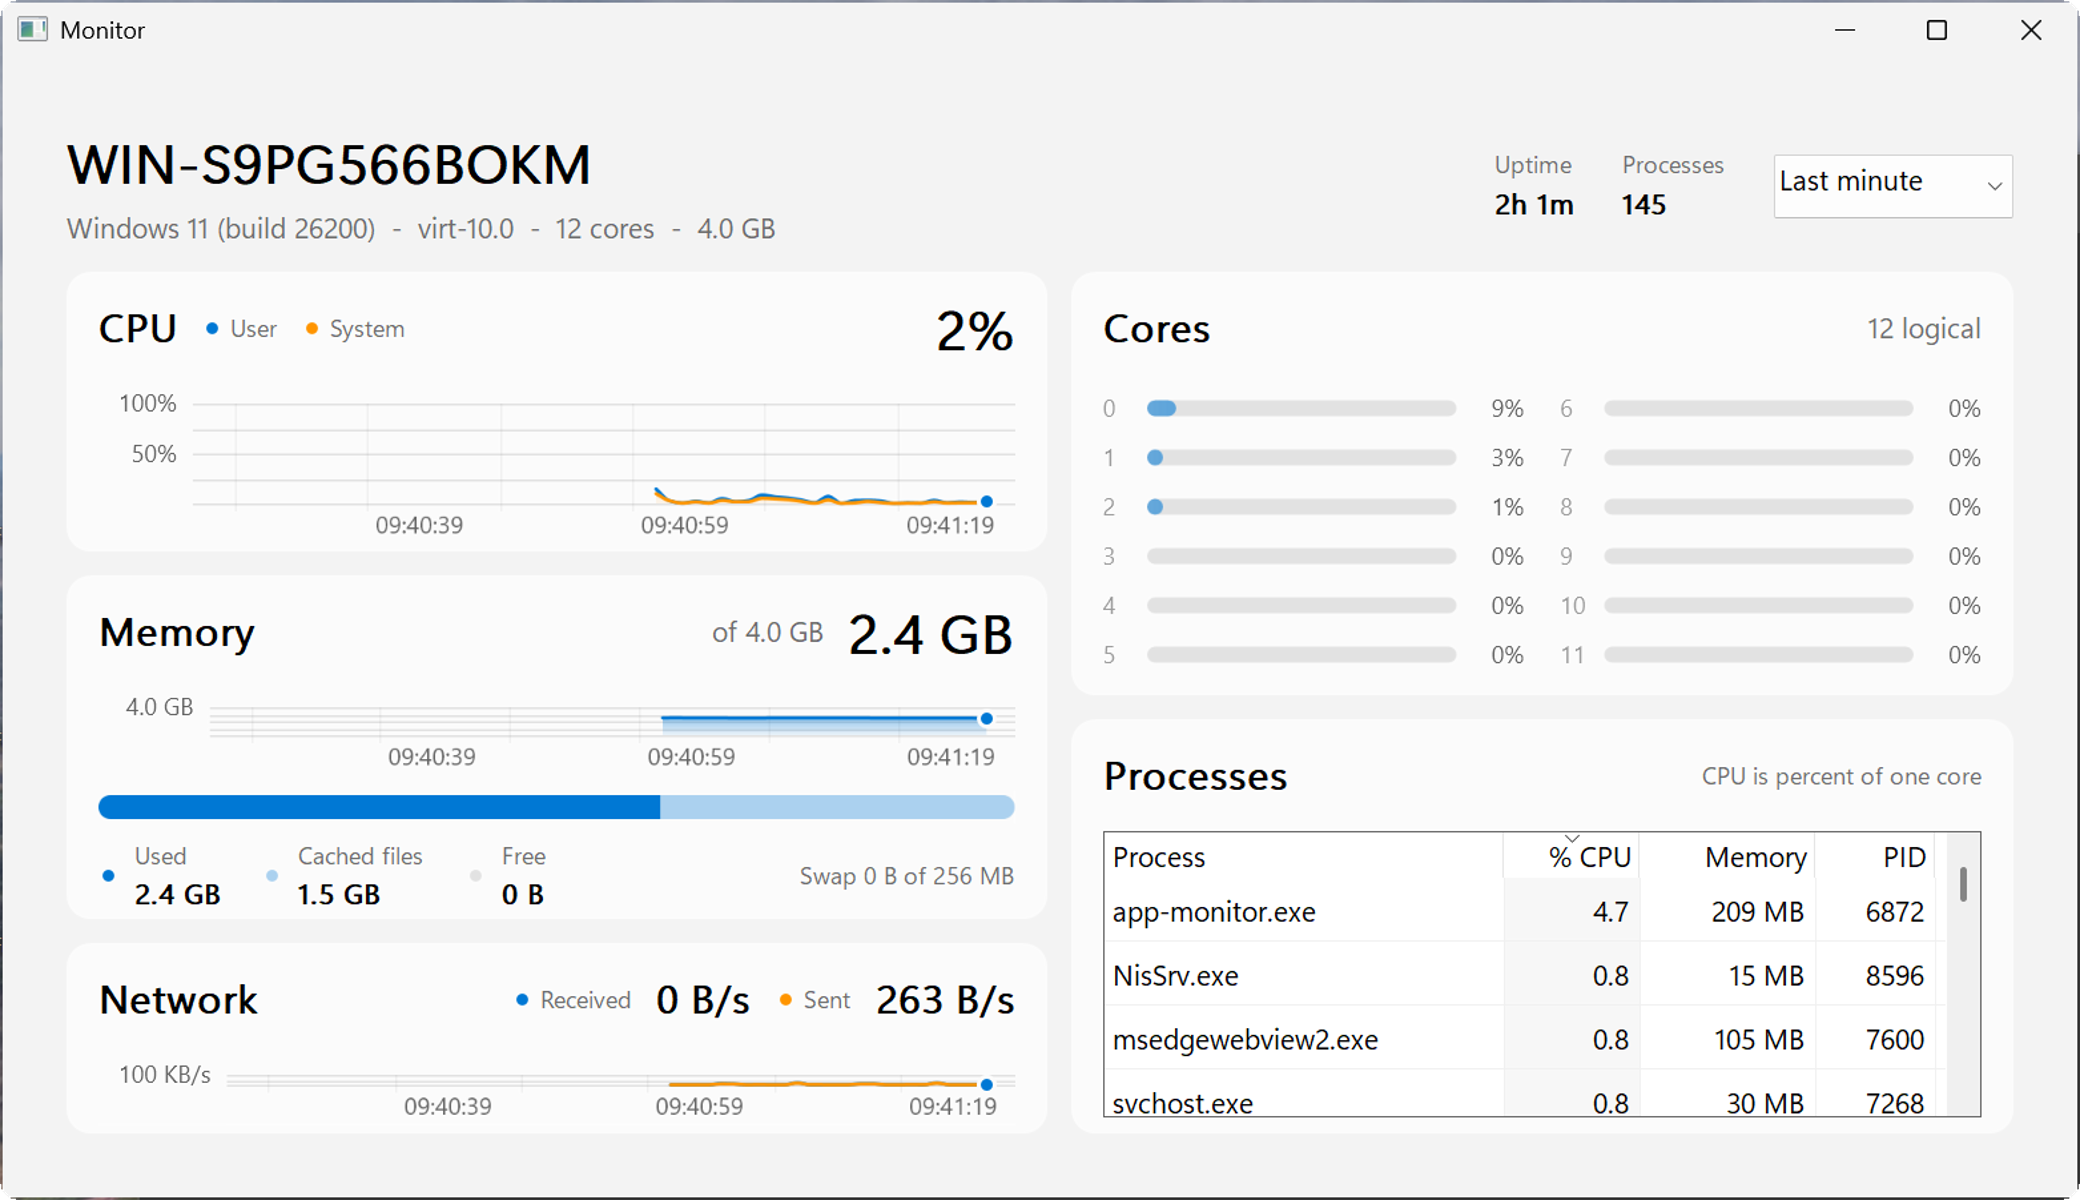
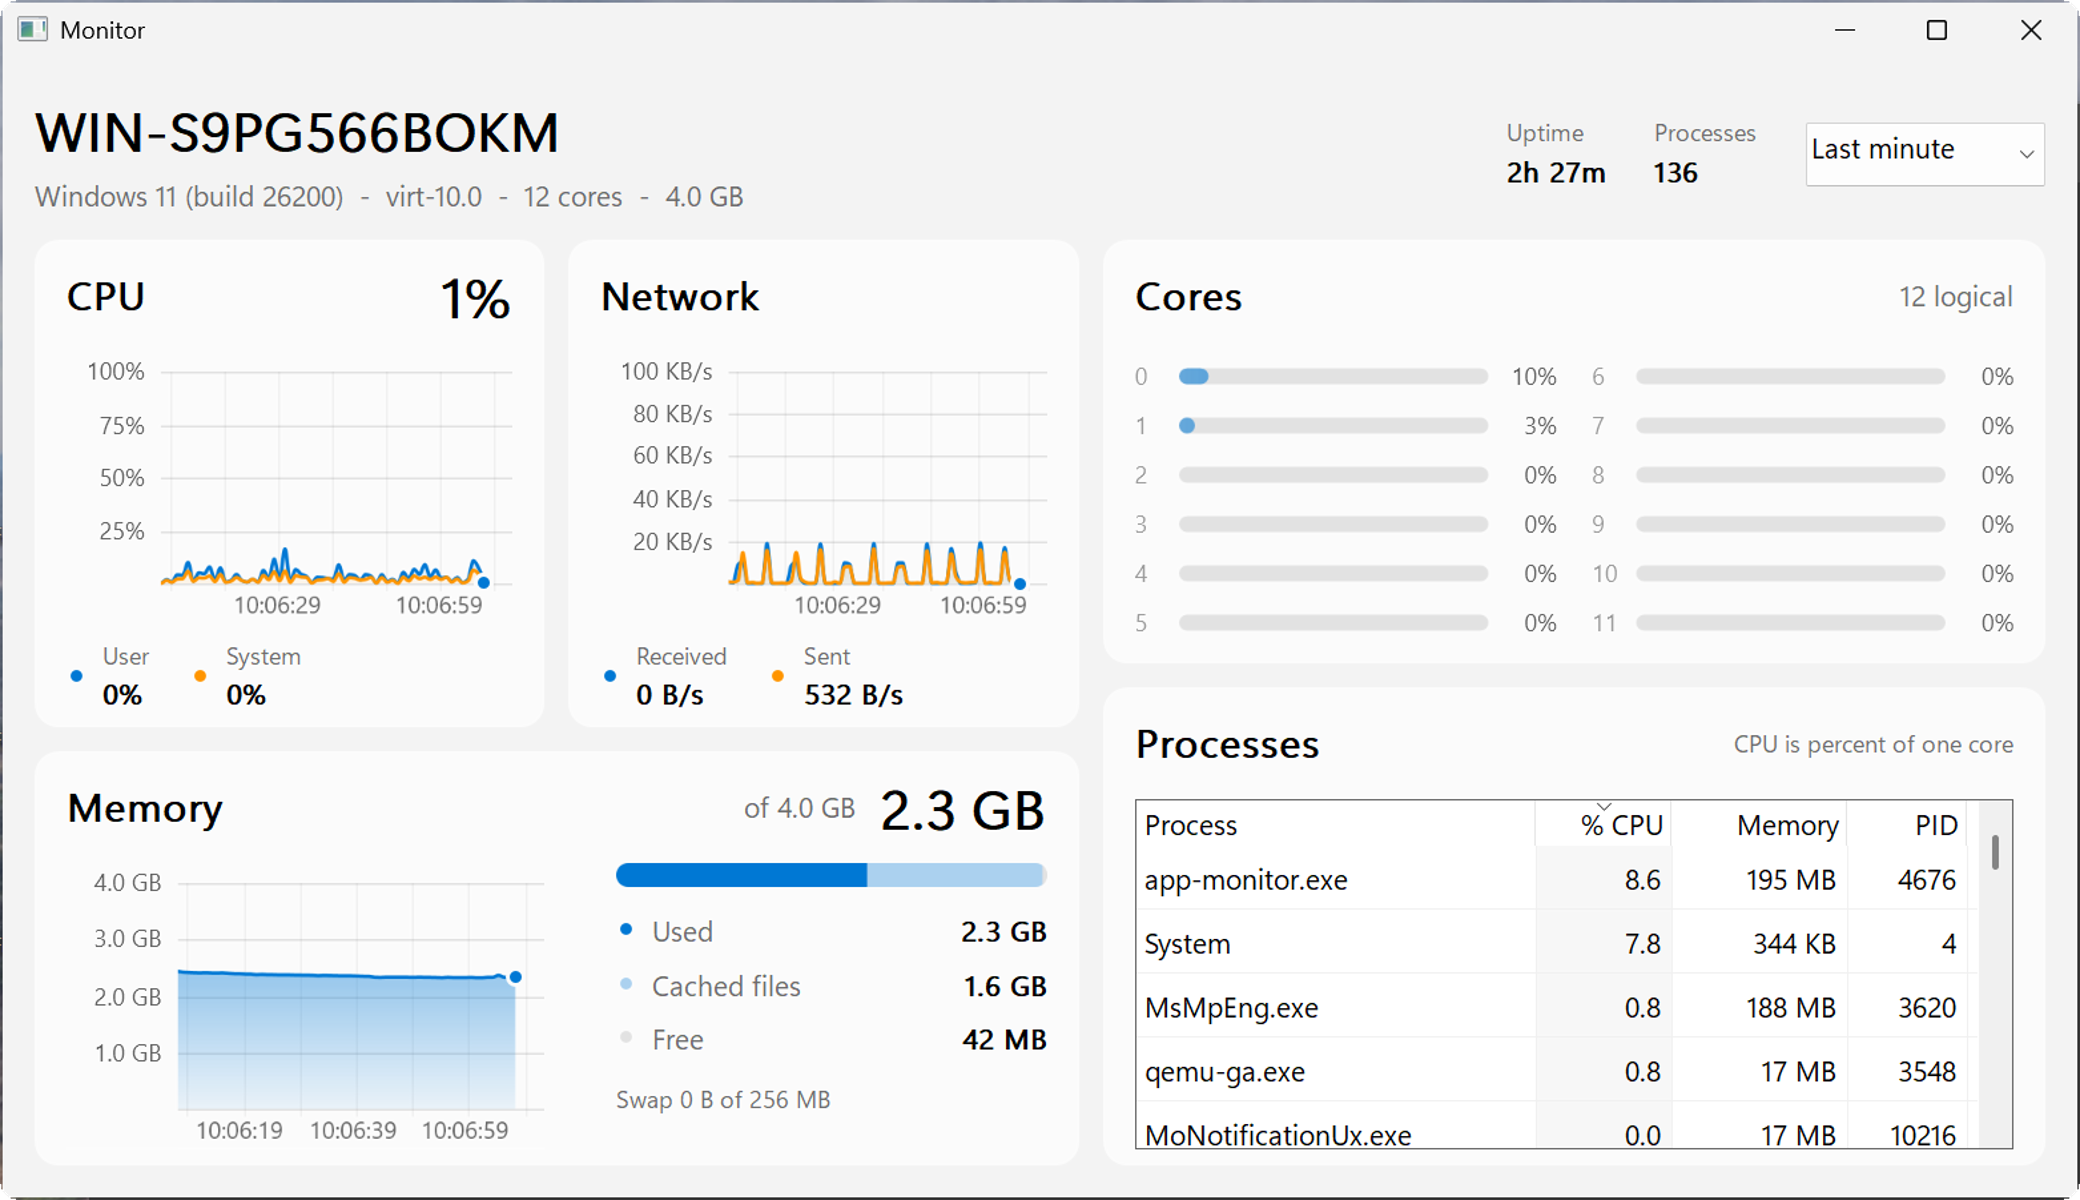
monitor: CPU and Network side by side, Memory breakdown beside its chart, docs shots after a full minute
- Three stacked charts left a 20-30 pt plot in the 1040x600 docs shot. CPU and Network now share
  a row and Memory takes the width under them, its breakdown a list beside the chart as in
  Activity Monitor; each plot is 100+ pt at 1040x600 on Windows and Linux. Series legends with
  their current values sit under the CPU and Network charts.
- The extra 14 pt root padding is gone: the window keeps its PageMargin token.
- Network axis in fifths (5 ticks); time labels thin out to 30 or 60 s on narrow charts
  (labelEvery, tested).
- Under GOWT_SNAP the monitor waits 62 s, so "Last minute" is full; docs-shots.sh allows 120 s.
- GTK: a second card repaint 0.7 s after each sample, once the charts and the memory bar have
  eased; their frames blanked the memory list.

diff --git a/examples/apps/monitor/main.go b/examples/apps/monitor/main.go
@@ -61,9 +61,10 @@ type monitor struct {
 	usedSegs      []segment
 	allSegs       []segment
 
-	cpuValue, memValue, rxValue, txValue, memNote, swapNote, coresNote *gowt.LabelView
-	segValues                                                          []*gowt.LabelView
-	uptime, load, procCount                                            *gowt.LabelView
+	cpuValue, userValue, sysValue, memValue, rxValue, txValue *gowt.LabelView
+	memNote, swapNote, coresNote                              *gowt.LabelView
+	segValues                                                 []*gowt.LabelView
+	uptime, load, procCount                                   *gowt.LabelView
 
 	win      *gowt.Window
 	table    *gowt.TableView
@@ -75,8 +76,8 @@ type monitor struct {
 	first    bool
 }
 
-// snapping is true under GOWT_SNAP, a screenshot run. The charts need about 25 s of samples to show curves,
-// so the capture waits for them unless the caller set a longer delay.
+// snapping is true under GOWT_SNAP, a screenshot run. The charts need a minute of samples to fill the
+// "Last minute" window, so the capture waits for them unless the caller set a longer delay.
 var snapping = os.Getenv("GOWT_SNAP") != ""
 
 // demo is set under GOWT_DEMO=1, the README recording: the screen capture loads this process to over
@@ -85,8 +86,8 @@ var demo = os.Getenv("GOWT_DEMO") == "1"
 
 func main() {
 	if snapping {
-		if ms, _ := strconv.Atoi(os.Getenv("GOWT_SNAP_DELAY")); ms < 25000 {
-			os.Setenv("GOWT_SNAP_DELAY", "25000")
+		if ms, _ := strconv.Atoi(os.Getenv("GOWT_SNAP_DELAY")); ms < 62000 {
+			os.Setenv("GOWT_SNAP_DELAY", "62000")
 		}
 	}
 	err := gowt.Run(func(app *gowt.App) {
@@ -163,8 +164,15 @@ func lbl(dst **gowt.LabelView, text string, opts ...gowt.Option) gowt.Option {
 	return gowt.Label(text, append(opts, gowt.Init(func(l *gowt.LabelView) { *dst = l }))...)
 }
 
-func (m *monitor) legend(name string, color func(p *palette) gfx.Color) gowt.Option {
-	return gowt.HBox(gowt.Gap(gowt.Spacing.XS), m.dot(color), gowt.Label(name, kit.Faint(), gowt.Typeface(gowt.Type.Caption)))
+// legend is the row under a chart: per series a dot, its name and its current value.
+func (m *monitor) legend(items ...gowt.Option) gowt.Option {
+	return gowt.HBox(append([]gowt.Option{gowt.GrowX(), gowt.Gap(gowt.Scaled(20))}, items...)...)
+}
+
+func (m *monitor) series(name string, color func(p *palette) gfx.Color, dst **gowt.LabelView) gowt.Option {
+	return gowt.HBox(gowt.Gap(gowt.Spacing.SM), m.dot(color),
+		gowt.VBox(gowt.Gap(1), gowt.Label(name, kit.Faint(), gowt.Typeface(gowt.Type.Caption)),
+			lbl(dst, "-", gowt.Typeface(gowt.Type.BodyStrong))))
 }
 
 func (m *monitor) build() {
@@ -192,7 +200,7 @@ func (m *monitor) build() {
 		value: func(v float64) string { return bytesStr(uint64(v * total)) },
 	}, pal, windows[0])
 	m.net = newChart(chartSpec{
-		names: []string{"Sent", "Received"}, minMax: 100e3, fracs: []float64{0, 0.5, 1}, widest: "000 KB/s",
+		names: []string{"Sent", "Received"}, minMax: 100e3, fracs: []float64{0, 0.2, 0.4, 0.6, 0.8, 1}, widest: "000 KB/s",
 		color: func(p *palette, i int) gfx.Color { return []gfx.Color{p.orange, p.accent}[i] },
 		axis:  rate, value: rate,
 	}, pal, windows[0])
@@ -208,11 +216,15 @@ func (m *monitor) build() {
 	w := app.Window("Monitor")
 	m.win = w
 	kit.Size(w)
-	w.SetMinSize(900, 520)
-	w.Add(gowt.VBox(gowt.Grow(), gowt.Padding(gowt.Scaled(14)), gowt.Gap(gowt.Spacing.MD),
+	w.SetMinSize(900, 560)
+	// CPU and Network share a row and Memory takes the width under them: three charts stacked in the
+	// 600 pt high docs shot left a plot of about 30 pt each.
+	w.Add(gowt.VBox(gowt.Grow(), gowt.Gap(gowt.Spacing.MD),
 		m.header(),
 		gowt.HBox(gowt.Grow(), gowt.Gap(gowt.Spacing.MD),
-			gowt.VBox(gowt.Grow(), gowt.Gap(gowt.Spacing.MD), m.cpuCard(), m.memCard(), m.netCard()),
+			gowt.VBox(gowt.Grow(), gowt.Gap(gowt.Spacing.MD),
+				gowt.Fill(gowt.Grow(), gowt.Gap(gowt.Spacing.MD), m.cpuCard(), m.netCard()),
+				m.memCard()),
 			gowt.VBox(gowt.Size(gowt.Scaled(440), 0), gowt.GrowY(), gowt.Gap(gowt.Spacing.MD), m.coresCard(), m.procCard()))))
 	w.Show()
 	m.refreshPalette()
@@ -256,33 +268,40 @@ func head(title string, extra ...gowt.Option) gowt.Option {
 
 func (m *monitor) cpuCard() gowt.Option {
 	return m.card(gowt.Grow(), gowt.VBox(gowt.Grow(), gowt.Gap(gowt.Spacing.SM), gowt.Padding(gowt.Spacing.XS),
-		head("CPU", m.legend("User", func(p *palette) gfx.Color { return p.accent }), m.legend("System", func(p *palette) gfx.Color { return p.orange }),
-			gowt.Spacer(), lbl(&m.cpuValue, "-", gowt.Typeface(gowt.Type.Title))),
-		m.cpu.option(gowt.Scaled(300), gowt.Scaled(76))))
+		head("CPU", gowt.Spacer(), lbl(&m.cpuValue, "-", gowt.Typeface(gowt.Type.Title))),
+		m.cpu.option(gowt.Scaled(200), chartMin),
+		m.legend(m.series("User", func(p *palette) gfx.Color { return p.accent }, &m.userValue),
+			m.series("System", func(p *palette) gfx.Color { return p.orange }, &m.sysValue))))
 }
 
+// chartMin is the least height of a chart with its time labels: a plot of about 90 pt.
+var chartMin = gowt.Scaled(120)
+
 func (m *monitor) memCard() gowt.Option {
-	var legend []gowt.Option
+	// The breakdown is a list beside the chart, as in Activity Monitor; under the chart it took
+	// the chart's height.
+	var rows []gowt.Option
 	m.segValues = make([]*gowt.LabelView, len(m.allSegs))
 	for i, s := range m.allSegs {
-		legend = append(legend, gowt.HBox(gowt.Gap(gowt.Spacing.SM), m.dot(s.color),
-			gowt.VBox(gowt.Gap(1), gowt.Label(s.name, kit.Faint(), gowt.Typeface(gowt.Type.Caption)),
-				lbl(&m.segValues[i], "-", gowt.Typeface(gowt.Type.BodyStrong)))))
+		rows = append(rows, m.dot(s.color), gowt.Label(s.name, kit.Faint()),
+			lbl(&m.segValues[i], "-", gowt.Typeface(gowt.Type.BodyStrong), gowt.Right(), gowt.GrowX()))
 	}
-	legend = append(legend, gowt.Spacer(), lbl(&m.swapNote, "", kit.Faint(), gowt.Typeface(gowt.Type.Caption)))
 	return m.card(gowt.Grow(), gowt.VBox(gowt.Grow(), gowt.Gap(gowt.Spacing.SM), gowt.Padding(gowt.Spacing.XS),
 		head("Memory", gowt.Spacer(), lbl(&m.memNote, "", kit.Faint()), lbl(&m.memValue, "-", gowt.Typeface(gowt.Type.Title))),
-		m.mem.option(gowt.Scaled(300), gowt.Scaled(40)),
-		m.bar.strip(gowt.Scaled(16)),
-		gowt.HBox(append([]gowt.Option{gowt.GrowX(), gowt.Gap(gowt.Scaled(20))}, legend...)...)))
+		gowt.HBox(gowt.Grow(), gowt.Gap(gowt.Spacing.XL),
+			m.mem.option(gowt.Scaled(300), chartMin),
+			gowt.VBox(gowt.Size(gowt.Scaled(200), 0), gowt.Place(gowt.AlignFill, gowt.AlignStart), gowt.Gap(gowt.Spacing.MD),
+				m.bar.strip(gowt.Scaled(12)),
+				gowt.Grid(3, append([]gowt.Option{gowt.GrowX(), gowt.Gap(gowt.Spacing.SM)}, rows...)...),
+				lbl(&m.swapNote, "", kit.Faint(), gowt.Typeface(gowt.Type.Caption))))))
 }
 
 func (m *monitor) netCard() gowt.Option {
 	return m.card(gowt.Grow(), gowt.VBox(gowt.Grow(), gowt.Gap(gowt.Spacing.SM), gowt.Padding(gowt.Spacing.XS),
-		head("Network", gowt.Spacer(),
-			m.legend("Received", func(p *palette) gfx.Color { return p.accent }), lbl(&m.rxValue, "-", gowt.Typeface(gowt.Type.Subtitle)),
-			m.legend("Sent", func(p *palette) gfx.Color { return p.orange }), lbl(&m.txValue, "-", gowt.Typeface(gowt.Type.Subtitle))),
-		m.net.option(gowt.Scaled(300), gowt.Scaled(32))))
+		head("Network"),
+		m.net.option(gowt.Scaled(200), chartMin),
+		m.legend(m.series("Received", func(p *palette) gfx.Color { return p.accent }, &m.rxValue),
+			m.series("Sent", func(p *palette) gfx.Color { return p.orange }, &m.txValue))))
 }
 
 func (m *monitor) coresCard() gowt.Option {
@@ -429,6 +448,8 @@ func (m *monitor) apply(s sampler.Snapshot) {
 	}
 	m.cpu.push(s.Time, s.System, s.User)
 	m.cpuValue.SetText(pct(s.CPU))
+	m.userValue.SetText(pct(s.User))
+	m.sysValue.SetText(pct(s.System))
 
 	total := float64(s.Mem.Total)
 	vals := make([]float64, len(m.usedSegs))
@@ -468,4 +489,7 @@ func (m *monitor) apply(s sampler.Snapshot) {
 		m.fillTable()
 	}
 	m.repaintCards()
+	// The charts and the memory bar ease for up to about 0.6 s; on GTK their frames blank the
+	// labels again.
+	m.app.After(700*time.Millisecond, m.repaintCards)
 }

diff --git a/examples/apps/monitor/tape.go b/examples/apps/monitor/tape.go
@@ -109,6 +109,11 @@ func recordTape(p *tapeParams, ts []float64, vals [][]float64) tapeResult {
 
 	tick := gfx.StrokeStyle{Width: 1}
 	off := float64(p.base.UnixNano()) / 1e9 // ticks fall on whole minutes and seconds of the clock
+	layout := "15:04"
+	if p.tickStep < 60 {
+		layout = "15:04:05"
+	}
+	every := labelEvery(p.tickStep*p.pps, gfx.DefaultMeasurer.MeasureText(layout, pal.small).Width+12)
 	for t := math.Ceil((p.xLo+off)/p.tickStep)*p.tickStep - off; t <= p.xHi; t += p.tickStep {
 		x := math.Round(t*p.pps) + 0.5
 		var l gfx.Path
@@ -116,12 +121,8 @@ func recordTape(p *tapeParams, ts []float64, vals [][]float64) tapeResult {
 		l.LineTo(x, p.h-strip+4)
 		r.StrokePath(&l, tick, pal.tick)
 		at := p.base.Add(time.Duration(t * float64(time.Second)))
-		// a label on every second tick only: Pango text is the slow part of a Linux tile
-		if k := math.Round((float64(at.UnixNano())/1e9)/p.tickStep) * p.tickStep; math.Mod(k/p.tickStep, 2) == 0 {
-			layout := "15:04"
-			if p.tickStep < 60 {
-				layout = "15:04:05"
-			}
+		// a label on every second tick at most: Pango text is the slow part of a Linux tile
+		if k := math.Round((float64(at.UnixNano())/1e9)/p.tickStep) * p.tickStep; math.Mod(k/p.tickStep, every) == 0 {
 			s := at.Format(layout)
 			if p.visHi == 0 || (x+4 >= p.visLo && x+4+gfx.DefaultMeasurer.MeasureText(s, pal.small).Width <= p.visHi) { // a label the edge would cut is left out
 				r.Text(s, x+4, p.h-5, pal.small, pal.label)
@@ -211,6 +212,17 @@ func recordAxis(pal *palette, p *tapeParams, label func(float64) string) *gfx.Pi
 		r.Text(s, p.margin-8-gfx.DefaultMeasurer.MeasureText(s, pal.small).Width, y+pal.small.Size*0.36, pal.small, pal.label)
 	}
 	return r.Finish()
+}
+
+// labelEvery is how many ticks apart the time labels are, so that labels labelW wide do not touch
+// on ticks gap apart; the steps keep the labels on round times (20, 30, 60 s for 10 s ticks).
+func labelEvery(gap, labelW float64) float64 {
+	for _, n := range []float64{2, 3, 6} {
+		if n*gap >= labelW {
+			return n
+		}
+	}
+	return 12
 }
 
 // niceCeil rounds v up to 1, 2, 2.5, 5 or 10 times a power of ten: the axis moves in readable steps.

diff --git a/examples/apps/monitor/chart_test.go b/examples/apps/monitor/chart_test.go
@@ -198,6 +198,14 @@ func BenchmarkRasterTape(b *testing.B) {
 	}
 }
 
+func TestLabelEvery(t *testing.T) {
+	for _, c := range []struct{ gap, w, want float64 }{{50, 60, 2}, {30, 60, 2}, {25, 60, 3}, {12, 60, 6}, {4, 60, 12}} {
+		if got := labelEvery(c.gap, c.w); got != c.want {
+			t.Errorf("labelEvery(%v, %v) = %v, want %v", c.gap, c.w, got, c.want)
+		}
+	}
+}
+
 func TestNiceCeil(t *testing.T) {
 	for in, want := range map[float64]float64{0: 1, 1: 1, 1.1: 2, 2.2: 2.5, 4.9: 5, 51: 100, 90e3: 100e3} {
 		if got := niceCeil(in); got != want {

diff --git a/examples/apps/monitor/repaint_linux.go b/examples/apps/monitor/repaint_linux.go
@@ -4,6 +4,9 @@ package main
 // labels beside it (they show blank until the next full repaint). Toolkit bug, worked around here only.
 func (m *monitor) repaintCards() {
 	for _, c := range m.cards {
+		if c.Unwrap().IsDisposed() { // a delayed repaint can come after the window closed
+			continue
+		}
 		c.Unwrap().RedrawChildren(true)
 	}
 }

diff --git a/docs/screenshots.md b/docs/screenshots.md
@@ -53,7 +53,7 @@ The images of one catalog sample have the same pixel size on macOS, Windows and 
 
 `tooling/docs-shots-vm.sh windows|linux` (`ONLY="coolbar example-hello"` shoots a few) copies the programs to the VM, runs them one after another and fetches the PNGs; `source-<os>.txt` records the stand, commit and date. The web view examples are shot through Xwayland because native Wayland reads a WebKitGTK window back empty; under Xwayland the window has no frame, so those two images lack the title bar. `GOWT_SNAP_FULL=1` (Windows) copies with `PrintWindow(PW_RENDERFULLCONTENT)` so WebView2 shows; `GOWT_SNAP_NOFOCUS=1` (macOS) takes the focus ring off before the capture, `tooling/docs-shots.sh` sets it.
 
-All three run `tooling/docs-shots.sh <os>`: it builds each program in `examples/` except `controlexample` and `catalog`, runs it with `GOWT_SNAP=docs/img/example-<name>-<os>.png`, then runs `examples/catalog <widget>` for every sample, writing `docs/img/<widget>-<os>.png` (the [components](components.md)). Windows open one after another and close by themselves; a program that does not produce a file within 60 seconds is killed and reported as `FAILED`. The script exits non-zero if any shot failed. Use another stand container with `make linux-docs-shots LINUX_CTR=name LINUX_PORT=6090`.
+All three run `tooling/docs-shots.sh <os>`: it builds each program in `examples/` except `controlexample` and `catalog`, runs it with `GOWT_SNAP=docs/img/example-<name>-<os>.png`, then runs `examples/catalog <widget>` for every sample, writing `docs/img/<widget>-<os>.png` (the [components](components.md)). Windows open one after another and close by themselves; a program that does not produce a file within 120 seconds is killed (the monitor app waits 62 s for a full minute of history) and reported as `FAILED`. The script exits non-zero if any shot failed. Use another stand container with `make linux-docs-shots LINUX_CTR=name LINUX_PORT=6090`.
 
 To add a widget to the catalog, add a line to `samples` in `examples/catalog/main.go`; the script reads the names from there.
 
